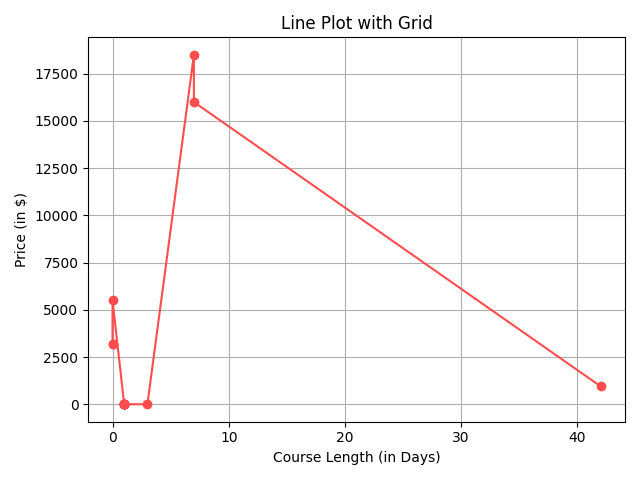
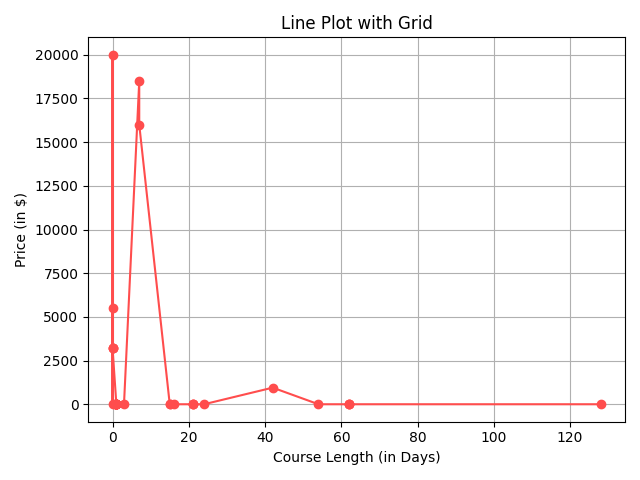
Added dropdown menu

diff --git a/gui.py b/gui.py
@@ -43,10 +43,8 @@ def add_subjects():
 
     source_name = ""
 
-    if method == "Web Scraping":
-        if(current_web_scraping_source_index>=len(sources_web_scraping)): current_web_scraping_source_index = 0 #προσωρινα το βαζω να τρεχει πολλαπλες φορες πανω στα Harvard, Class Central
-
-        source = sources_web_scraping[current_web_scraping_source_index]
+    if method == "Harvard":
+        source = sources_web_scraping[0]
         source_name = source["name"]
         print(f"[{source_name}] Status: Starting Web Scraping Data Collection...")
         try:
@@ -55,7 +53,27 @@ def add_subjects():
             print(f"[{source_name}] Status: Failed")
             return
         current_web_scraping_source_index +=1
-    elif method == "API":
+    elif method == "Class Central":
+        source = sources_web_scraping[1]
+        source_name = source["name"]
+        print(f"[{source_name}] Status: Starting Web Scraping Data Collection...")
+        try:
+            result_df = Scraper(source['url'], source['name'])
+        except:
+            print(f"[{source_name}] Status: Failed")
+            return
+        current_web_scraping_source_index += 1
+    elif method == "Coursera":
+        source = sources_web_scraping[2]
+        source_name = source["name"]
+        print(f"[{source_name}] Status: Starting Web Scraping Data Collection...")
+        try:
+            result_df = Scraper(source['url'], source['name'])
+        except:
+            print(f"[{source_name}] Status: Failed")
+            return
+        current_web_scraping_source_index += 1
+    elif method == "Udemy Free":
         source_name = "Udemy (API)"
         print(f"[{source_name}] Status: Starting API Data Collection...")
         result_df = freeUdemyCourse()
@@ -143,8 +161,8 @@ if __name__ == "__main__":
     addSubjectsBtn = tk.Button(frame1, text="Προσθήκη μαθημάτων", width=35, command=add_subjects)
     addSubjectsBtn.pack(pady=paddingYVal, side="top")
 
-    methods = ["Web Scraping", "API"]
-    method_opt = StringVar(value="Web Scraping")  # Default τιμή το Web Scraping
+    methods = ["Harvard","Class Central","Coursera", "Udemy Free"]
+    method_opt = StringVar(value="Harvard")  # Default τιμή το Web Scraping
     methodMenu = OptionMenu(frame1, method_opt, *methods)
     methodMenu.config(width=15)
     methodMenu.pack(pady=5)

diff --git a/compositeScore.py b/compositeScore.py
@@ -30,13 +30,13 @@ def calcCompositeScore():
         # prevent null exception
         if((np.max(Cost) - np.min(Cost))==0):
             for i in range(rows):
-                normalizedCost[i]= 0.5
+                normalizedCost[i]= 0.6
         else:
             normalizedCost =(1- (Cost - np.min(Cost)) / (np.max(Cost) - np.min(Cost)))*0.6
         #if max and min is equal then whole data set breaks, so i create it
         if ((np.max(duration) - np.min(duration)) == 0):
             for i in range(rows):
-                normalizedDuration[i] = 0.5
+                normalizedDuration[i] = 0.4
         else:
             normalizedDuration = (duration-np.min(duration))/(np.max(duration)-np.min(duration))
         for i in range(rows):